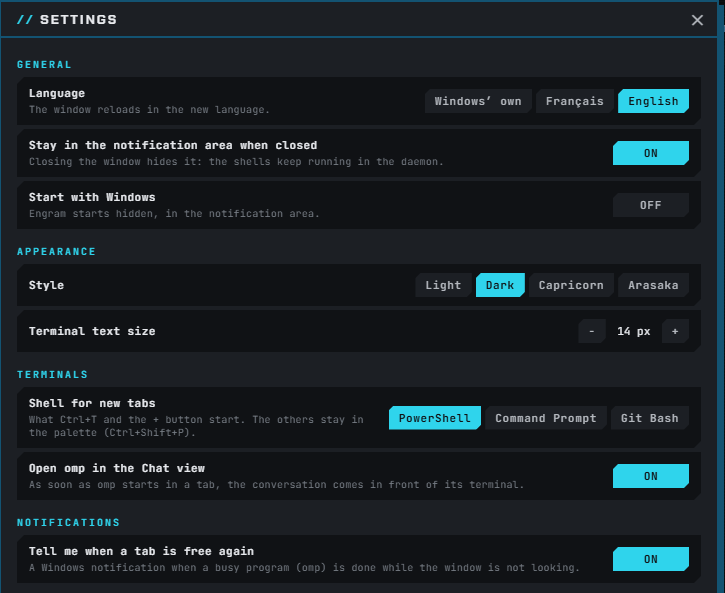
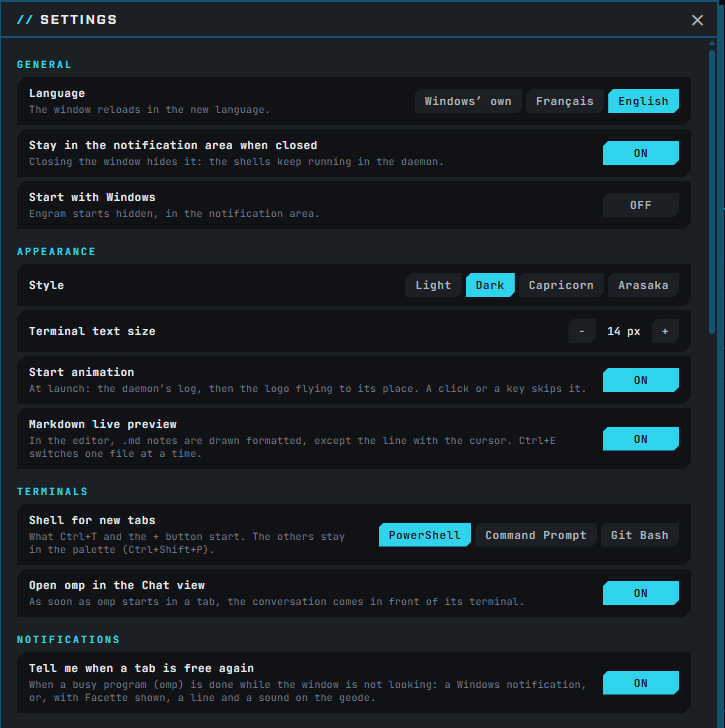
Project page: a home for coding agents; Facette, the Régie and the brain

diff --git a/README.md b/README.md
@@ -5,8 +5,9 @@
 <h1 align="center">Engram</h1>
 
 <p align="center">
-  <b>A terminal whose sessions outlive its window.</b><br>
-  Close it, reopen it: your shells, your dev servers and your coding agents are still running.
+  <b>A home for your coding agents on Windows.</b><br>
+  Run several omp sessions at once, read them as chats, let one of them run the others,<br>
+  and know at a glance which one needs you. Close the window: the work goes on.
 </p>
 
 <p align="center">
@@ -15,36 +16,83 @@
 </p>
 
 <p align="center">
-  <img src="images/chat-dark.png" alt="Engram showing an omp conversation in its Chat view: tool calls on one line each, an edit with its diff, a table and a code block, the context gauge under the conversation and the subscription gauges in the bar">
+  <img src="images/hero.png" alt="The Régie's tab: a map of five omp sessions grouped by project, and its conversation listing who works, who waits and who is done. Facette, the geode, sits over the corner of the window and introduces itself">
 </p>
 
 ## Why Engram
 
-Most terminals die with their window. Engram splits the two: a small background daemon keeps every shell alive in its
-own pseudo-terminal, and the window (the *Deck*) is only a view on them. Close the Deck, open it again later: each tab
-comes back exactly as it was, screen, colors and cursor included, with whatever kept running in the meantime.
+Coding agents work for minutes, sometimes hours, and the useful way to use them is several at a time: one fixes a
+bug while another writes the docs and a third waits for your answer. A terminal window is a poor place for that.
+Engram is built around it:
 
-It is built for long-running work: dev servers, test watchers, and coding agents such as omp that you want to leave
-working while you do something else.
+- **They keep running.** A small background daemon holds every shell and every agent; the window (the *Deck*) is
+  only a view on them. Close it, come back tomorrow: each tab is where you left it.
+- **You read them, not their terminal.** An omp conversation shows as a chat: one line per tool call, edits with
+  their diff, questions as cards you answer with a click.
+- **You stay on top of many.** The *Régie* is a conversation that runs the others: ask it who is waiting, what one
+  of them found, or to open a new one. *Facette*, a small geode on your desktop, shows every session's state even
+  when the Deck is closed.
+- **They remember.** A built-in *brain*, a vault of markdown notes compatible with Obsidian, feeds each new
+  conversation with what matters and keeps what they learn.
+
+Without omp, Engram is still a terminal whose sessions outlive its window: dev servers, test watchers and long jobs
+keep running in the background.
 
 ## Features
 
+### Facette, on your desktop
+
+<img src="images/facette.png" alt="Facette: the geode with six facets in different colors, and its bubble open on a session that waits for an answer, with a line to reply">
+
+A small geode that stays above your windows, even with the Deck closed. Each live omp session holds one of its six
+facets (colors of the Dark style; each style has its own):
+
+- **grey** is a free facet, **lavender** a session at rest;
+- it beats **amber** while its session works, detaches in **cyan** and pings when it waits for you, turns **red**
+  and shakes on an error;
+- it turns **green** when an answer is done, and stays green until you read it, in the Deck or from Facette.
+
+Its **heart**, where the facets meet, is the Régie. Hover a facet for *project · session · state · since when*. Click
+it and the conversation opens beside the geode, shortened to its last turns, with a line to answer it; double-click
+it and the Deck opens on that conversation. Click the heart, or press `Ctrl+Alt+Space` from anywhere, to talk to the
+Régie.
+
+A session that waits for you or fails says so in a line over the geode, with a soft sound: no Windows notification to
+dismiss. Drop a file or some text on the geode and it lands in the brain's inbox. Facette steps aside when a game or
+a video goes full screen.
+
+### The Régie: one conversation that runs the others
+
+The picture at the top is the Régie's tab: a map of your omp sessions grouped by project, and its conversation docked
+below. Ask it in plain words. It lists the sessions, reads their last answers, writes to them (the message arrives as
+`[Régie] …`, queued if the session is at work), opens new ones in a project's folder with a first instruction, waits
+until they are done and sums up what they said. A line on the map ties it to each session it worked with.
+
+Whatever it writes into another session from a question asked in Facette waits for your *Send* or *Cancel* first. It
+closes a session only when asked, never one at work, and remembers its own conversation from one opening to the next.
+
 ### A Chat view for omp
 
-Start omp in a tab and the conversation comes to the front as a chat instead of a raw terminal stream:
+<img src="images/chat.png" alt="An omp conversation in the Chat view: tool calls on one line each, an edit with its diff, a table and a code block, the context gauge under it. Facette, over the corner, explains that a finished answer stays green until it is read">
+
+Start omp in a tab and the conversation comes to the front as a chat, with a *Terminal* tab beside it for the real
+thing:
 
 - your messages in bubbles, the reasoning folded into one line;
 - **each tool call on one line**: what was done and on what, then what it came to (`9 lines`, `code 1`,
   `2 results · 1 file`); a click unfolds the output;
 - **edits with their diff**, removed lines in red, added in green, with line numbers;
-- tables, links, quotes, and code blocks colored by language with a copy button;
-- **pictures**: paste one (`Ctrl+V`) or drop it on the view and it goes with your next message, as in omp's own
-  terminal;
+- tables, links, quotes, code blocks colored by language with a copy button, and **pictures**: an SVG block drawn in
+  the colors of your style, a picture whose path an answer names shown under its paragraph;
+- **paths in answers are links**: `src/app.js:12` opens the file in the editor at that line;
+- **quote what you answer**: select a sentence in an answer, or lines in the editor, and *↩ Quote* drops it into your
+  message as a chip that brings you back to its source;
+- **pictures in your messages**: paste one (`Ctrl+V`) or drop it on the view;
 - a **context gauge** under the conversation: its size against the model's context window (`186.4k / 1M`), green,
   then amber, then red as it fills.
 
-The input box types straight into omp, and the real terminal is always one shortcut away (`Ctrl+Shift+T`). omp itself
-is untouched: Engram follows the conversation file it writes.
+omp itself is untouched: Engram follows the conversation file it writes, and installs omp for you the first time if
+it is missing.
 
 ### Answer omp's questions with a click
 
@@ -63,6 +111,23 @@ dialog, so the terminal stays in sync.
 - The **subagents** it starts show as a card in the conversation, and in the **Agents panel** under the file tree:
   running ones first, with their kind, model, context, cost, time and what they are doing right now. A click opens an
   agent's log.
+
+### A brain for your agents
+
+<img src="images/brain.png" alt="The Brain tab: the notes of a vault in a folder tree, and their links drawn as a circuit board, one zone per domain. Facette, over the corner, says that a file dropped on it goes to the brain's inbox">
+
+The *Brain* tab holds a vault of markdown notes, compatible with Obsidian: a folder tree, search, the links of the
+note you read, and a graph drawn as a circuit board (domains as zones, notes as chips, links as traces). Notes open
+in the editor with a live preview.
+
+Point it at your own Obsidian vault, or let Engram make one. A guided start asks where it lives, writes your profile
+in a few questions, and lets you choose what it may do, each with its cost:
+
+- new omp conversations start with your profile and the top of its index;
+- at each message, omp gets a few pointers to the notes that match it;
+- finished omp and Claude Code conversations are captured into its inbox;
+- a daily upkeep, given to omp, files the inbox into pages. A strip shows what it changed, and one click puts every
+  page back as it was. Each note keeps its earlier texts for 30 days.
 
 ### Your Claude subscription at a glance
 
@@ -122,11 +187,12 @@ engram list
 
 ### Settings, in English or French
 
-<img src="images/settings.png" alt="The settings panel: language, notification area, start with Windows, style, terminal text size, shell of new tabs, Chat view, notices">
+<img src="images/settings.png" alt="The settings panel: language, notification area, start with Windows, style, terminal text size, start animation, live preview, shell of new tabs, Chat view, notices, Facette">
 
 Everything in one panel (`Ctrl+,` or ⚙ in the bar): language, staying in the notification area, starting with Windows,
-style, terminal text size, the shell of new tabs, omp in the Chat view at once, notices. The interface speaks English
-or French and follows Windows' language by default.
+style, terminal text size, the shell of new tabs, omp in the Chat view at once, notices, Facette (its shortcut, full
+screen, sounds), the brain, and omp's own model and tool approval. The interface speaks English or French and follows
+Windows' language by default.
 
 ### Four styles
 
